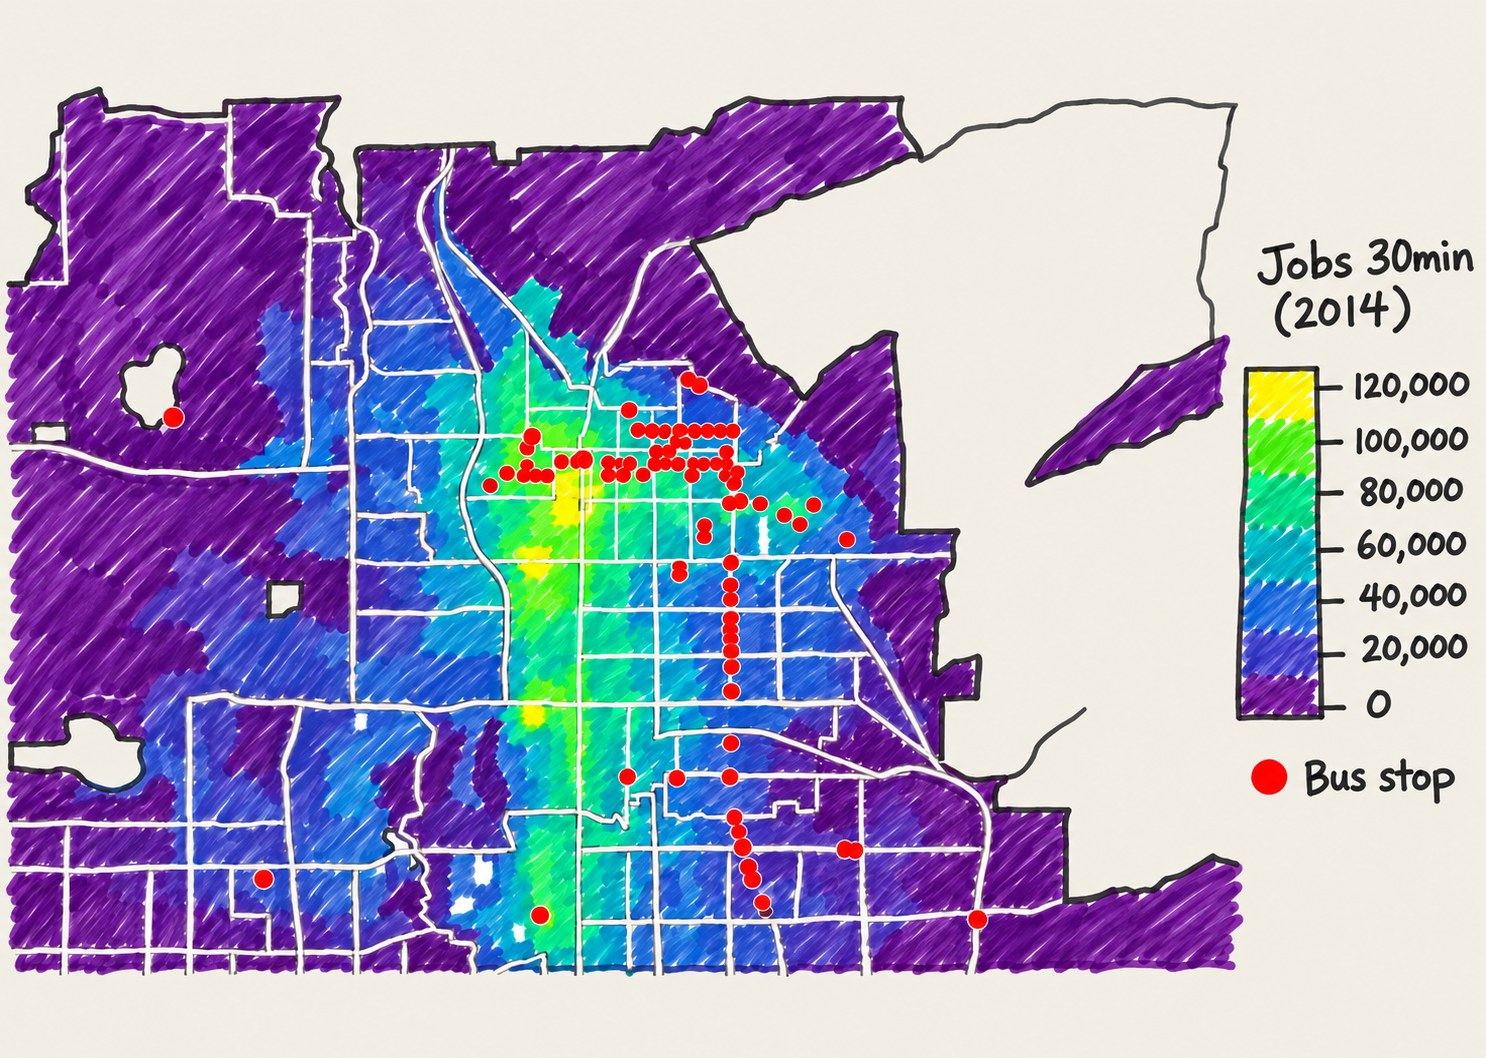
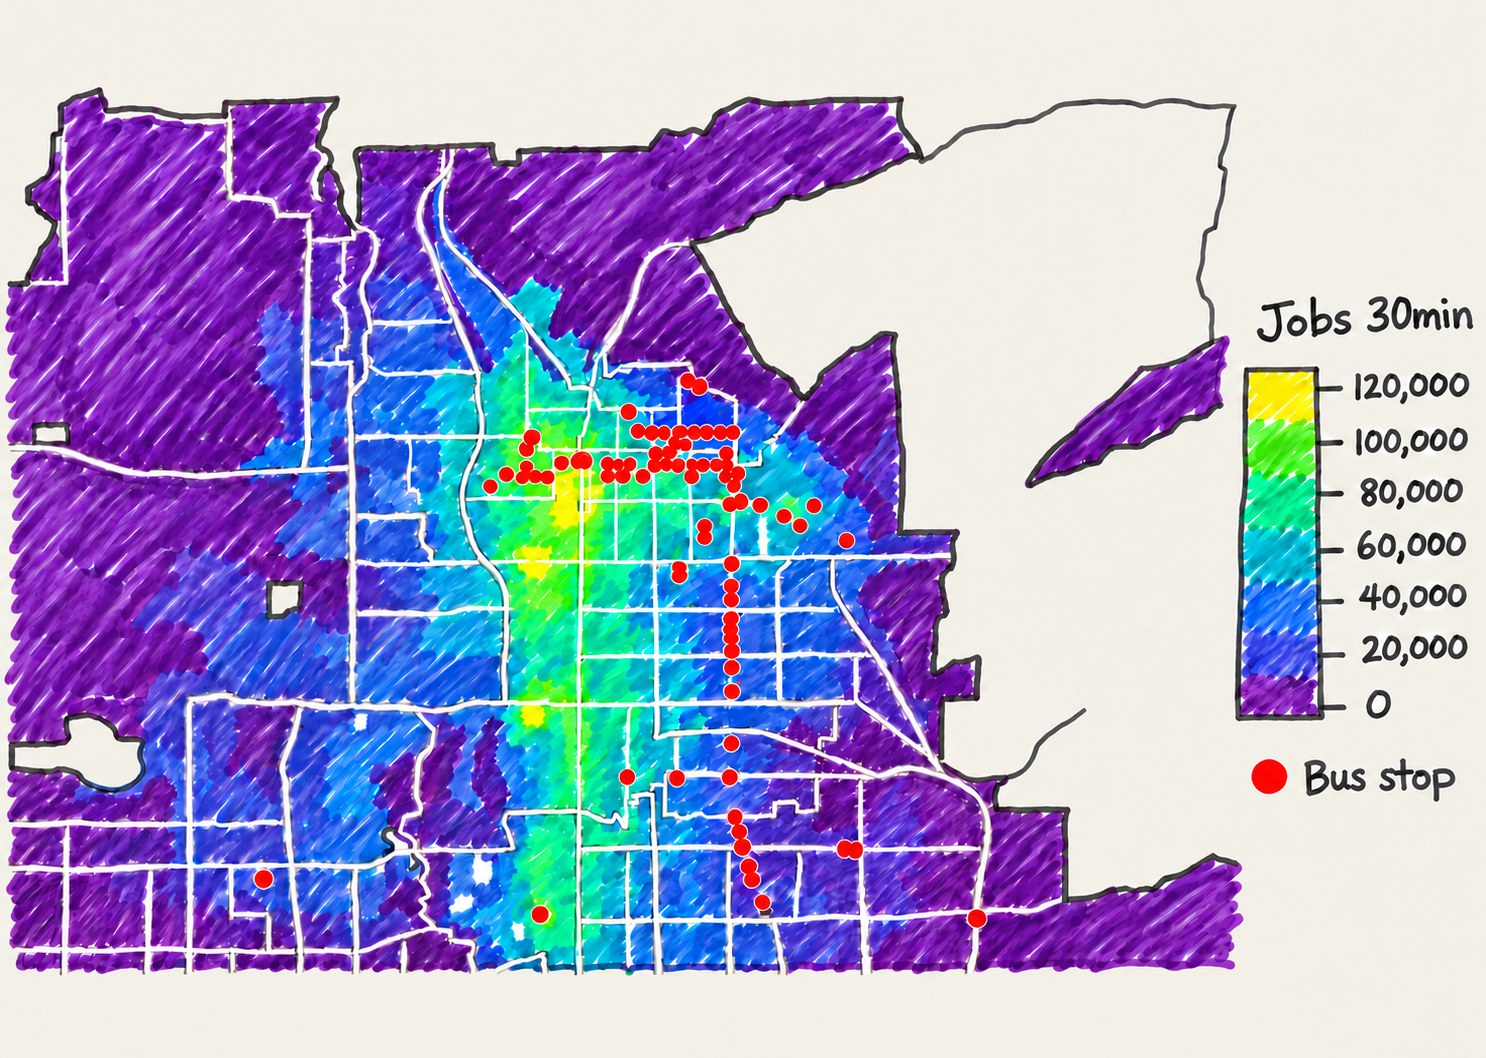
Research: updated hand-drawn SLC map (user edit), cache-bust ?v=2

diff --git a/publications/index.html b/publications/index.html
@@ -47,7 +47,7 @@
 
           <article class="research-item" aria-labelledby="public-transport-title">
             <figure class="research-item-figure">
-              <img src="../assets/slc-transit-map-handdrawn-ivory.jpg" alt="Map of jobs reachable by transit within 30 minutes and bus stops in Salt Lake City, 2014">
+              <img src="../assets/slc-transit-map-handdrawn-ivory.jpg?v=2" alt="Map of jobs reachable by transit within 30 minutes and bus stops in Salt Lake City, 2014">
             </figure>
             <div class="research-item-copy">
               <h2 id="public-transport-title">Public Transport: A Route to Reduce Employment Gap?</h2>
